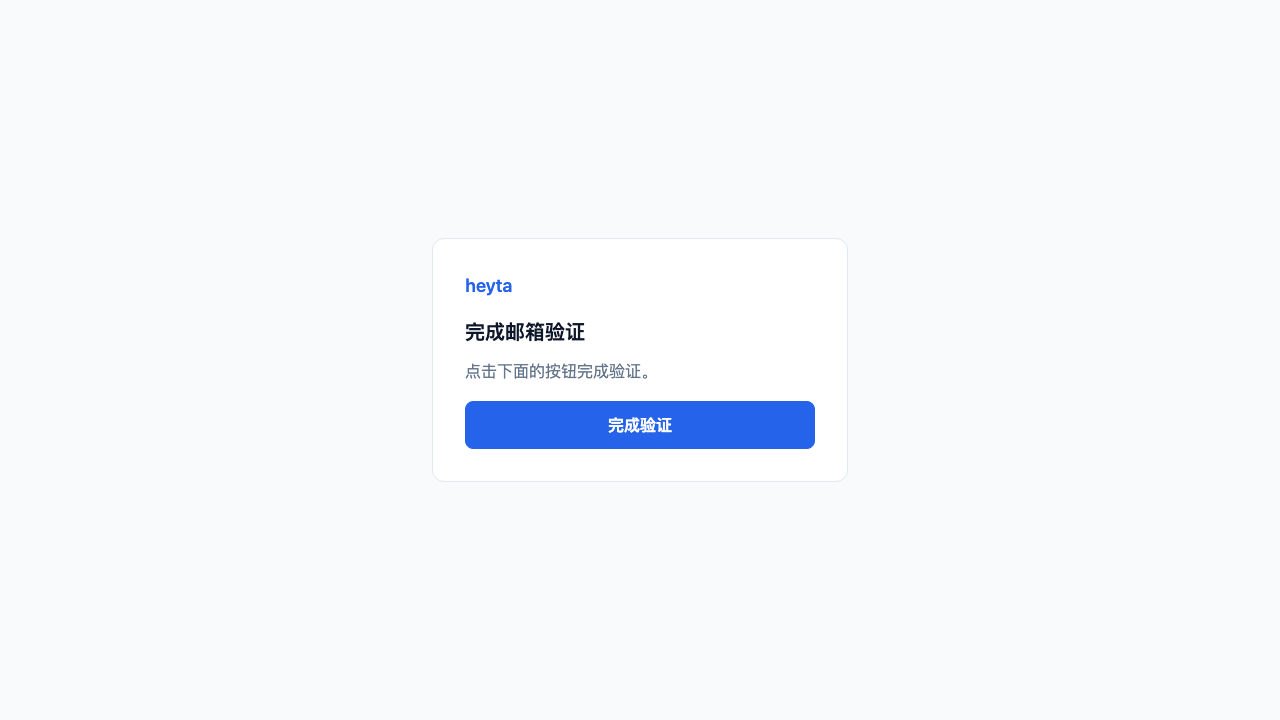
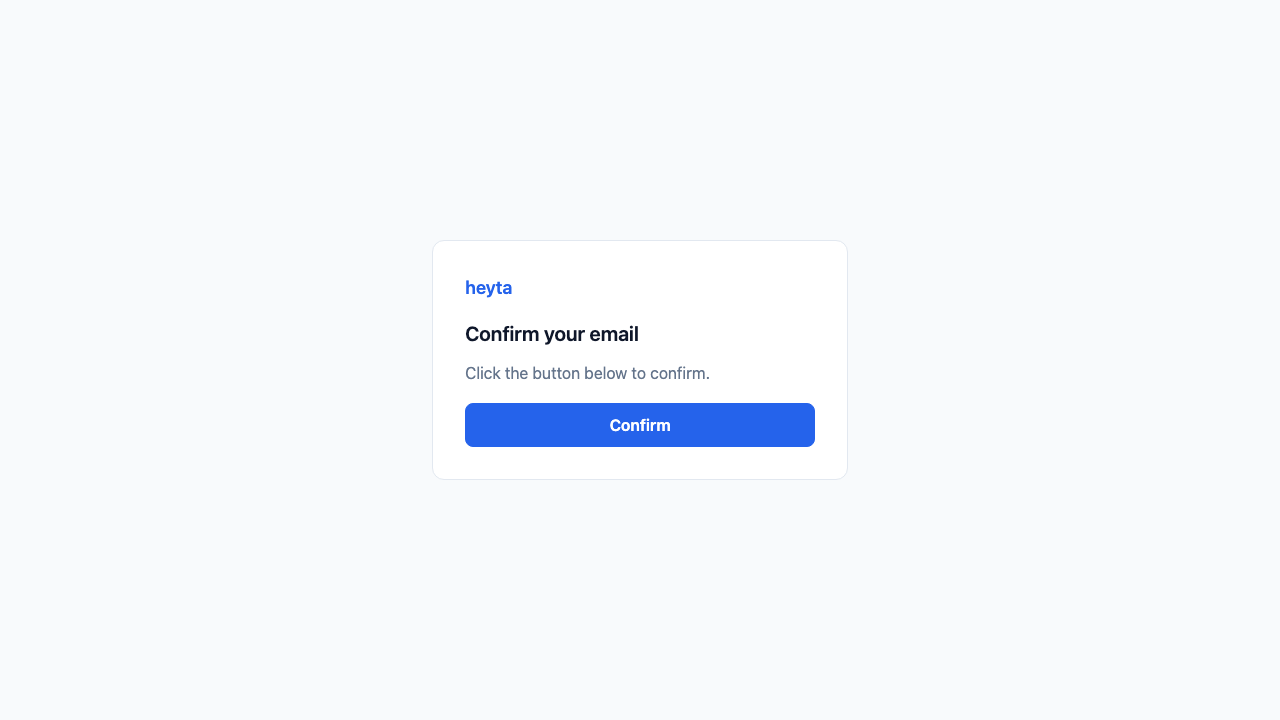
test(web): 旅程判据从九格到十一格 —— "没人填地址"与"语言随链接走"都成了断言
两处都是**判据**，不是脚本顺手改：

① 地址框预填：旧脚本在注册前 `fill(WEB)`，那面墙（"先敲出你连哪台服务端"）
   正是被拆掉的东西。现在整条旅程一个地址都不填，并**读回框里的 value** 断言
   它等于同源地址 —— "不用填"和"默认值是对的"是两件事，只看注册成功可能
   成功地把请求发去了构建期烙进去的旧域名。
   变异实测（一次性干净 worktree，共享树未动）：预填初值改回空 ⇒ **恰好这格红**
   （`value=""`），其余十格全绿。

② 链接里的 `lang=`：旧取链接正则停在 `[0-9a-f]+`，把 `&lang=en` 整个截掉，
   于是这一腿从来没进过判据。补上后立刻照出一件探针事实 —— Playwright 无头
   Chromium **不发 `Accept-Language`**（`navigator.language` 却是 `en-US`），
   没有 `lang=` 时服务端落 `zh-CN` 兜底，"英文界面 + 中文确认页"就是这么来的，
   而它长得极像本地化坏了。变异：把 built server 的 `withLocale` 摘掉 ⇒
   **恰好这格红**，其余全绿。

锚点一律换成 `data-testid`：这台机器上浏览器是 en-US，而应用现在认浏览器语言，
旧的 `input[placeholder^="添加任务"]` 会超时 —— 拿文案当锚点等于把"换了语言"
读成"应用没打开"（§7 第 46 条那类假红）。中途抛错时也**先落一张图**再报失败。

README 里那条"这两张截图还没有人看过"已兑现并改写：两张图逐张打开核对过，
描述按图里的真实内容重写（图是英文的，上一版写的是中文文案 —— 那本身就是假证据）。

Changed region(s): [[0.3438, 0.3667, 0.5312, 0.55], [0.4688, 0.5806, 0.5312, 0.6111]]

diff --git a/apps/web/evidence/email-chain/README.md b/apps/web/evidence/email-chain/README.md
@@ -36,20 +36,50 @@
 
 入口：`node scripts/verify-email-web-chain.mjs`（走**生产同源拓扑**的本地复刻：
 本脚本起一个反代，`/api`+确认页 → API 服务端，其余 → `apps/web/dist` 真产物）。
-九格判定，全部要走真浏览器 + 真邮件：
+十一格判定，全部要走真浏览器 + 真邮件：
 
 | 步 | 结果 |
 |---|---|
 | ① 应用在**同源反代**下打开（真产物） | ✅ |
-| ① UI 注册（真界面） | ✅ |
+| ① 地址框**预填成同源地址**而没人碰过它（结构类） | ✅ |
+| ① UI 注册（真界面，**一个地址都不填**） | ✅ |
 | ② **真发一封**（Ethereal 兜底，从 preview URL 把信读回来） | ✅ |
 | ② 链接指向**反代那个 origin**（不是 `localhost`、不是 API 的端口） | ✅ |
+| ② 链接带 `lang=` 且等于提交时的**界面语言**（结构类） | ✅ |
 | ③ 打开链接 ⇒ **确认页**（不是"已失效"） | ✅ |
 | ④ 点击 ⇒ 跳到 `/app/` 且应用挂载 | ✅ |
 | ④ 会话经 **URL fragment** 投递到应用（结构类） | ✅ |
 | ④ 地址栏里的会话 fragment **已被抹掉**（结构类） | ✅ |
 | ⑤ 落盘凭据出现（刷新之后仍是登录态） | ✅ |
 | ⑤ 身份菜单出现"**退出登录**"⇒ **应用真的登录了** | ✅ |
+
+### 「一个地址都不填」这一格是判据，不是省事
+
+旧脚本在这里 `fill(WEB)` —— 注册的前置条件是"先把你连哪台服务端敲出来"，
+而那面墙正是被拆掉的东西。现在整条旅程**没有任何一次输入地址**，
+并且**读回那个框的 `value`**：
+
+> **"不用填"和"默认值是对的"是两件事。** 只看注册成功，可能成功地把请求
+> 发去了别处（比如构建期烙进去的旧域名）。
+
+🔴 变异实测（2026-10-01）：把 `AuthPanel` 的预填初值改回空（= 拆墙之前的行为）
+⇒ **恰好这一格红**（`实测 value=""`），其余十格**全绿**，旅程照样跑通。
+所以这一格钉的是"保证"，不是"能不能用" —— 这正是 `outcome` / `structure`
+分开的意义。
+
+### 链接里的 `lang=`：一整条腿以前从来没被验过
+
+加这一格的过程本身就值得记：旧的取链接正则停在 `[0-9a-f]+`，
+于是 **`&lang=en` 被截掉了**。后果不是"少打印一段"，而是这一腿从未进过判据，
+而截图会**看起来像本地化坏了** —— 无头 Chromium（Playwright 默认配置）
+实测**根本不发 `Accept-Language`**（同一次会话里 `navigator.language` 却是 `en-US`），
+所以没有 `lang=` 时服务端落到 `zh-CN` 兜底，**英文界面 + 中文确认页**就是这么来的。
+
+- 🔴 变异实测：把 built server 的 `withLocale` 改成原样返回 `link` ⇒
+  **恰好这一格红**（`lang=(没有)`），其余十格全绿。
+- ⚠ 新正则的字符类里那个 `\\` 是承重的：预览页把链接放在转义过的 `href=\"…\"` 里，
+  只排 `"'` 与空白会把结尾的反斜杠当链接抓回来（实测 `lang=en\` ⇒ 这一格红）。
+  **红得对，但红的是探针** —— 又一次"先怀疑探针"。
 
 ## 截图（给人看的）
 
@@ -58,14 +88,15 @@
 
 | 文件 | 它显示什么 |
 |---|---|
-| `web-chain-1-confirm-page.png` | 邮件链接打开的**确认页**："完成邮箱验证 / 点击下面的按钮完成验证 / 完成验证"（不是"链接已失效"） |
-| `web-chain-2-signed-in.png` | 点击之后**真的登录了**：账号菜单里是注册那个邮箱、菜单第一项是**「退出登录」**，左侧是完整应用界面 |
+| `web-chain-1-confirm-page.png` | 邮件链接打开的**确认页**（英文界面那条旅程）："Confirm your email / Click the button below to confirm. / Confirm"，蓝白卡片（不是"链接已失效"） |
+| `web-chain-2-signed-in.png` | 点击之后**真的登录了**：账号菜单里是刚注册那个邮箱、下面是 Settings 与危险色的 **Sign out**，左侧是完整应用界面（Inbox / Today / Next 7 Days） |
 
-⚠ **这两张截图还没有人看过**（本轮机跑过、也用程序核过不是空白，但"人看过"这一步没发生）——
-按目标的验收口径，这一条**未兑现**。
+✅ **这两张图看过了**（2026-10-01，`web-chain-run.txt` 同一轮：`RESULT=PASS`、
+`SIGNED_IN=true`、邮箱与图里那串逐字对得上）。
+⚠ 图里是**英文**，因为无头 Chromium 报 `navigator.language = en-US` ⇒ 应用按浏览器语言渲染。
+这不是缺陷，但**上一版这里写的是中文文案**（"完成验证 / 退出登录"）—— 那当时就是**假证据**：
+描述与图不符。文案随语言变，所以脚本的锚点也一律换成 `data-testid`（见下）。
 
-⚠ 顺带一条已知的**文案不贴切**：注册那封邮件走的是同一个确认页，按钮写着"完成验证"，
-而它同时会**签发会话**（即一步完成注册 + 登录）。贴切度一般的跟进项在 ADR-0039 §3。
 
 ## 那个长期的"点了邮件链接回来还是未登录"——根因定位（2026-09-30）
 
@@ -122,6 +153,13 @@
 改写**失配会当场抛**（`注入 X 没匹配上`）—— 静默失配会造出一条**假证据**：
 注入没生效 ⇒ 这一轮仍然全绿 ⇒ 而我却会把它当成"判据是活的"。
 
+🔴 上面那两条**新**变异（预填初值 / `withLocale`）没法在反代里做（一个在产物里、
+一个在发信代码里），所以做在**一次性的干净 worktree**（`git worktree add` 到 HEAD，
+跑完整个目录删掉），**共享工作树一个字节都没动**。
+两处都留了还原判据：`AuthPanel` 那行改回原文后 `sed -n 151p` 复读过，
+`email.js` 还原后 `grep -c 'lang='` 回到 1。
+**变异跑在临时树里 = 结论仍然对当前 HEAD 成立**，而跑在共享树里 = 会留下没人发现的残骸。
+
 ⚠ 顺带记一条**判据自身**的坑：第一次写这里时用 `res.text()` 读那次 POST 的响应体，
 而确认页成功后**立刻跳走** ⇒ 读取被取消、`.catch` 吞掉 ⇒ 证据里只剩"(没抓到)"，
 **看起来像"根本没发请求"**。改成**同步记状态码**才看见 `200`。
@@ -131,7 +169,18 @@
 - **只验了邮箱这条**。手机号那条是**预留**（ADR-0039 §2.4），没有真实短信网关，**不许**说它能用。
 - **不验 UI 点击**（那是浏览器套件的事，见 `e2e/auth-journey/`）；
   **不验桌面壳回调**（`heyta://auth`，反向授权那一步，单独验）。
-- 本机走 Ethereal ⇒ 这条判据在"真实 SMTP"下**尚未实测**（自建实例上的 SMTP 据产品负责人说已好，
-  但**我没有在自建实例上跑过这条脚本**）。
+- 🔴 **这条脚本走的是 Ethereal，不是真实收件箱**。要分清两件事：
+  - "**真实 SMTP 发得出去**"在生产上已经实测过（自建 SES 通道；账号语言 → 英文邮件
+    落件那条见 `docs/plans/i18n-multilingual.md` §3 的验收记录）；
+  - 但**"真收件箱里点开那封信"这一腿从来没跑过** —— 仓库里**没有任何收件箱读路径**
+    （无 IMAP 工具、无测试邮箱密码），所以这条判据在"真邮箱"下仍是**未实测**。
+    已作为编号缺口登记在 `docs/plans/user-journey-and-auth.md`。
+- **锚点一律用 `data-testid`，不用文案**：这台机器上 Playwright 起的是 `en-US` 浏览器，
+  而应用现在**认浏览器语言** ⇒ 旧版那句 `input[placeholder^="添加任务"]` 直接超时，
+  而应用其实是好的（真产物手验过：`#root` 18277 字符、`capture-input` 在）。
+  **拿文案当锚点 = 把"换了语言/改了措辞"读成"应用没打开"**（§7 第 46 条那类假红）。
+  ⚠ 还剩一处没换掉：注册按钮用的是 `/注册新账号|Create account/`（两种都列着），
+  因为 `AuthPanel` 里没有 testid。第三种语言一进来它就会红。
 - 注册确认页的**文案暂复用** `verify.*` / `login.*`（贴切度一般：注册链接会说"完成这次登录"）。
   这是**明确的跟进项**，写在 ADR-0039 §3。
+
